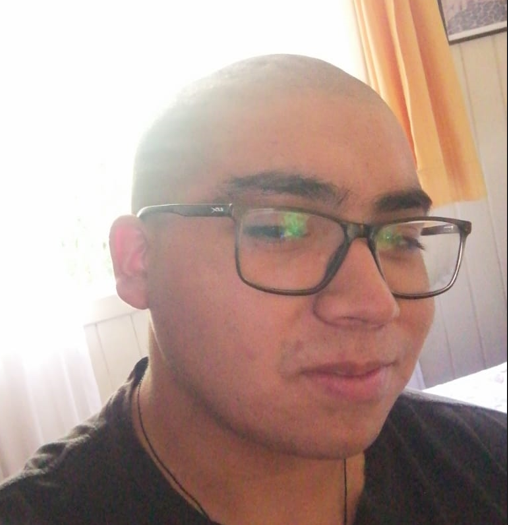
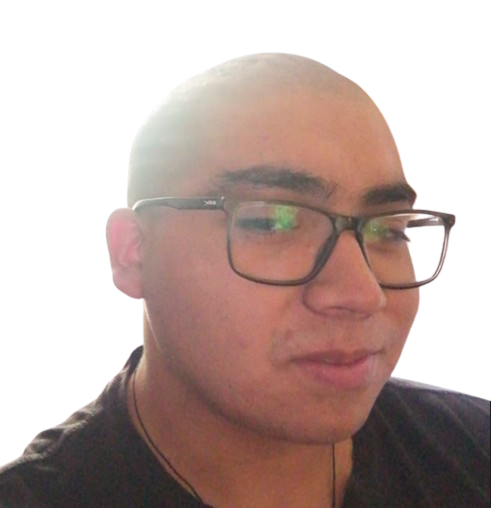
Pagina errorPage

Changed region(s): [[0.6721, 0.0, 1.0, 0.7677], [0.0, 0.561, 0.3055, 0.9154], [0.947, 0.7677, 1.0, 0.7972]]

diff --git a/frontend/src/routes/ErrorPage.jsx b/frontend/src/routes/ErrorPage.jsx
@@ -16,15 +16,15 @@ const ErrorPage = () => {
   });
 
   return (
-    <div className="flex min-h-[100dvh] flex-col items-center justify-center bg-background px-4 py-12 sm:px-6 lg:px-8">
+    <div className="containerError flex min-h-[100dvh] flex-col items-center justify-center bg-background px-4 py-12 sm:px-6 lg:px-8">
       <div className="mx-auto max-w-md text-center">
         <div className="flex justify-center mb-6">
           <img
             src="/dildudo.png"
-            width={200}
-            height={200}
+            width={400}
+            height={400}
             alt="404 Error"
-            className="rounded-full bg-primary p-4 text-primary-foreground"
+            className="dildudo"
           />
         </div>
         <h1 className="mt-4 text-5xl font-bold tracking-tight text-foreground sm:text-6xl">
@@ -35,7 +35,7 @@ const ErrorPage = () => {
         </p>
         <div className="mt-6">
           <a
-            href="/"
+            href="/home"
             className="inline-flex items-center rounded-md bg-primary px-4 py-2 text-sm font-medium text-primary-foreground shadow-sm transition-colors hover:bg-primary/90 focus:outline-none focus:ring-2 focus:ring-primary focus:ring-offset-2"
           >
             Volver a la página principal

diff --git a/frontend/src/styles/notFound.css b/frontend/src/styles/notFound.css
@@ -1,6 +1,29 @@
 /* styles.css */
-
+/* *, html{
+  height: 100vh;
+  width: 100%;
+} */
 /* Background */
+
+html{
+  width: 100%;
+  height: 100vh;
+}
+
+.containerError{
+  width: 100%;
+  height: 100vh;
+  text-align: center;
+}
+
+.dildudo{
+  /* border-radius: 10px; */
+  mask-image: linear-gradient(
+    black 96%,
+    transparent
+  );
+}
+
 .bg-background {
     background-color: #f8f9fa; /* Ajusta este color según sea necesario */
   }

diff --git a/frontend/src/index.css b/frontend/src/index.css
@@ -1,4 +1,10 @@
+/* html, body, #root{
+  width: 100%;
+  height: 100vh;
+} */
+
 :root {
+  height: 100vh !important;
   font-family: Inter, system-ui, Avenir, Helvetica, Arial, sans-serif;
   line-height: 1.5;
   font-weight: 400;
